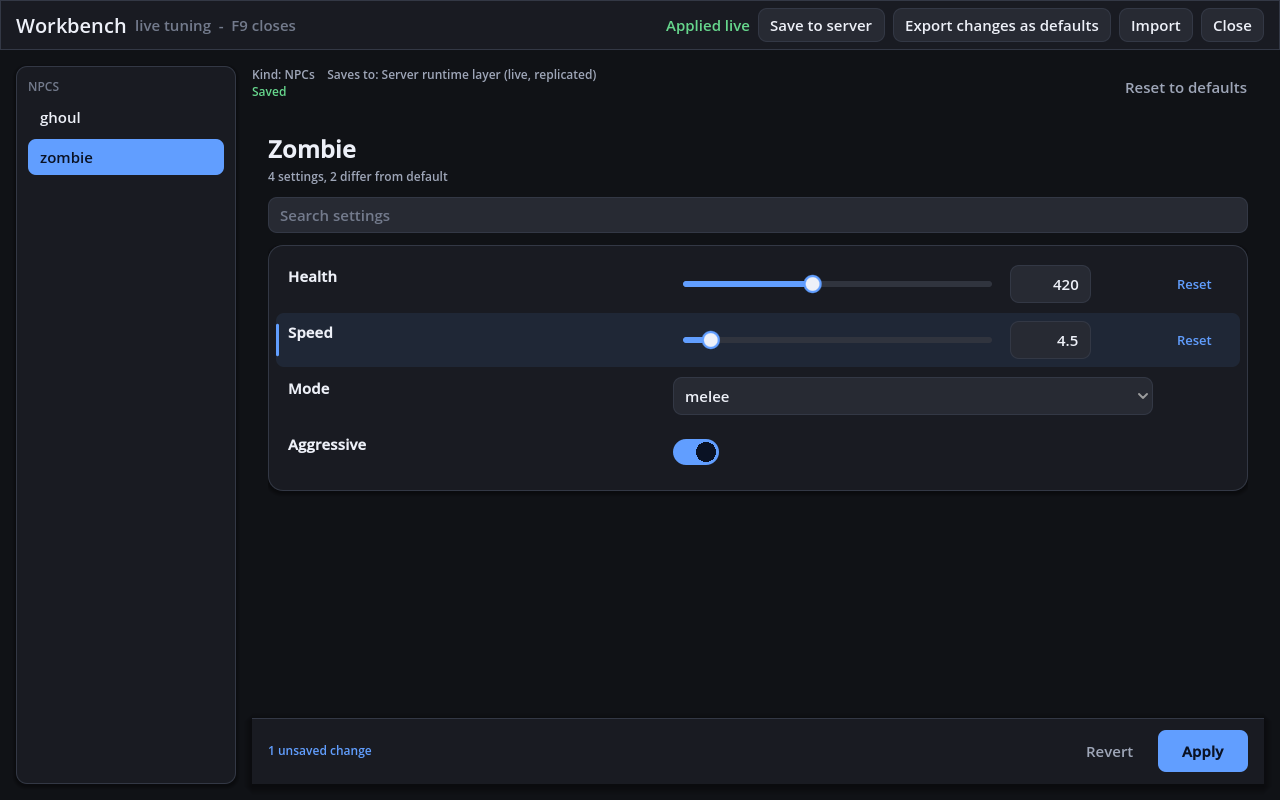
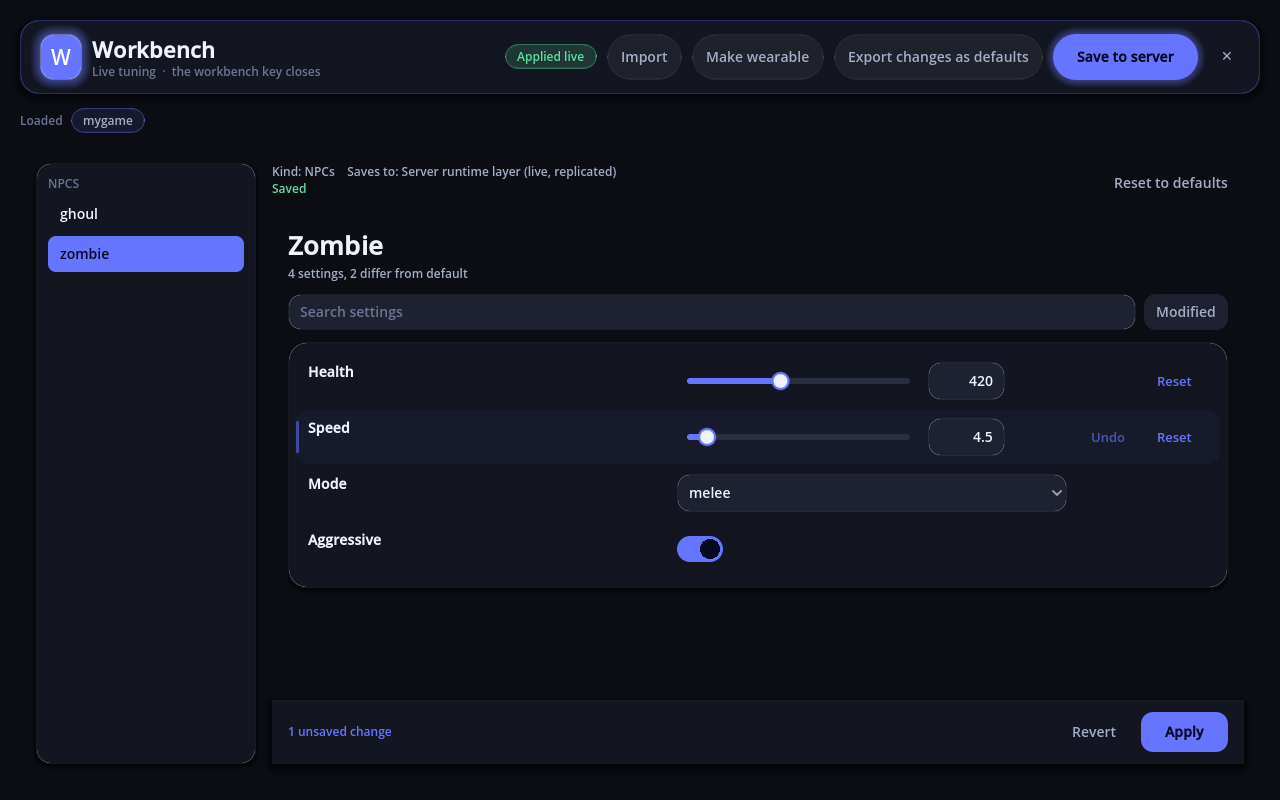
Workbench scope: list only loaded games/modes/addons, side labels, per-pack set views
DotWorkbenchScope tags a set (owner, side, requires, listed); the overlay rebuilds
its sections on open, appends the side to each heading and shows a Loaded row.
DotWorkbenchSetView lists a group member (a weapon pack) under its own heading
while edits go to the group's kind. Selftest 20 sections, 187 checks.

diff --git a/CLAUDE.md b/CLAUDE.md
@@ -11,6 +11,7 @@ Also requires **dot-profile** (`DotProfileSet`, `DotProfile`, `DotProfileRuntime
 - `DotWorkbenchPanel` is the in-game panel: it binds dot-menu's `DotProfileEditorScreen` (duck-typed, so dot-ui and dot-menu stay optional) to the api, so Apply, Reset and `save_to_server()` take the same permission path as HTTP. `tools/panel_shot.gd` needs dot-ui, dot-menu and dot-settings linked into `addons/` (gitignored).
 - `DotWorkbenchSpawnEditor` is the point-and-click spawn authoring mode (a Node3D; the game gives it `ray_fn`, a camera and the map's points): click adds or selects, Q/E turn, T team (1..`team_count`), V enable, F toggles the click tool between a player spawn and a flag stand (1..8 pick its team; a team owns one flag stand and placing again moves it), G turns the selected point into a flag stand or back, [ ] weight, M move to aim, Delete. Each edit goes through the api into the `spawn` profile of the map (`points.<id>`, dot-spawn's `DotSpawnOverrides` format) and saves to the server tier. Duck-typed to dot-spawn.
 - `DotWorkbenchOverlay` is the in-game window (toolbar over the editor) and `DotWorkbenchExport` the tuning round trip: it writes only values differing from `DotWorkbenchApi.baseline_value` (the value seen before the session's first edit) into `cfg/game/<game>/<kind>/<id>.yml`, a zip and a clipboard bundle, and imports any of the three through `api.handle`. Hosting is dot-game's `DotGameWorkbench`.
+- `DotWorkbenchScope` tags a set with owner/side/requires/listed (set meta, so `add_set(set, label)` hosts keep working); the overlay rebuilds its sections from `DotWorkbenchScope.sections(api, labels)` on every open. `DotWorkbenchSetView` (kind `<base>@<part>`) lists a group member under its own heading; `DotWorkbenchApi` keeps views out of the runtime and rewrites their kind to the base kind for edits (`kinds()` excludes views, `all_kinds()` includes them). Selftest: `_test_scope`, `_test_views`.
 - `DotWorkbenchPublish` (and the CLI `tools/publish_avatar_content.gd`) uploads a wearable, action or avatar GLB (the overlay's "Make wearable" form, `DotWorkbenchWearableForm`, does wearables; the token comes from a file) to the site's `/api/avatar/v1/publish` with a creator token; the site validates and moderates, this only pre-checks fields and size. Suite: `examples/publish_selftest.tscn`.
 - Secrets (admin token, TLS key, creator token) are read from files only, never env or argv.
 - Validate: `heavy -- godot --headless --path . --import`, parse every `.gd` with `--check-only`, then `heavy -- godot --headless --path . res://examples/workbench_selftest.tscn`.

diff --git a/README.md b/README.md
@@ -26,6 +26,8 @@ To try somebody else's tuning, press **Import** and paste the text, or type the 
 
 `DotWorkbenchExport` is the class behind both buttons (`collect()`, `export_changes()`, `import_source(actor, source)`); `DotWorkbenchOverlay` is the window. A game hosts them with dot-game's `DotGameWorkbench` ([dot-game docs/workbench.md](../dot-game/docs/workbench.md)).
 
+The window lists only what is loaded. A host tags each set with `DotWorkbenchScope.tag(set, {owner, side, requires, listed})`: `requires` (a Callable returning bool) hides a mode's section while that mode is off, `side` (`server`, `replicated`, `client`) is appended to the heading, and the owners of the listed sections show as pills in a **Loaded** row. The window re-checks this every time it opens. A set that groups several sources under one kind (dot-weapon's weapon group, one member per pack) is registered with `listed: false`, plus one `DotWorkbenchSetView.make(group, member, pack)` per member, so each pack gets its own heading while edits still go to the group's kind. Untagged sets are always shown.
+
 ## Identity (dot-auth, dot-console)
 
 `DotWorkbenchIdentity` is the admin-only gate for `api.identity`, a thin subclass of dot-core's `DotAdminIdentity` (API level 29) that adds `attach()`, the `workbench` log channel and the default `cvar`, `root` flags. Nothing is imported: the host gives it a `resolver` Callable(token) returning a `DotAuthIdentity` (or a Dictionary with `uid`), and optionally a `fallback_permit` Callable(uid, flag) backed by dot-server's admin manager or the console's permissions. Deny by default: only `admin_uids` and members of `admin_groups` get in; guests, expired and uid-less identities never do. Admitted actors are `id:<uid>`, so the runtime's audit line names them; tokens are never logged. `gate.attach(api)` installs it; the admin token keeps working beside it.
